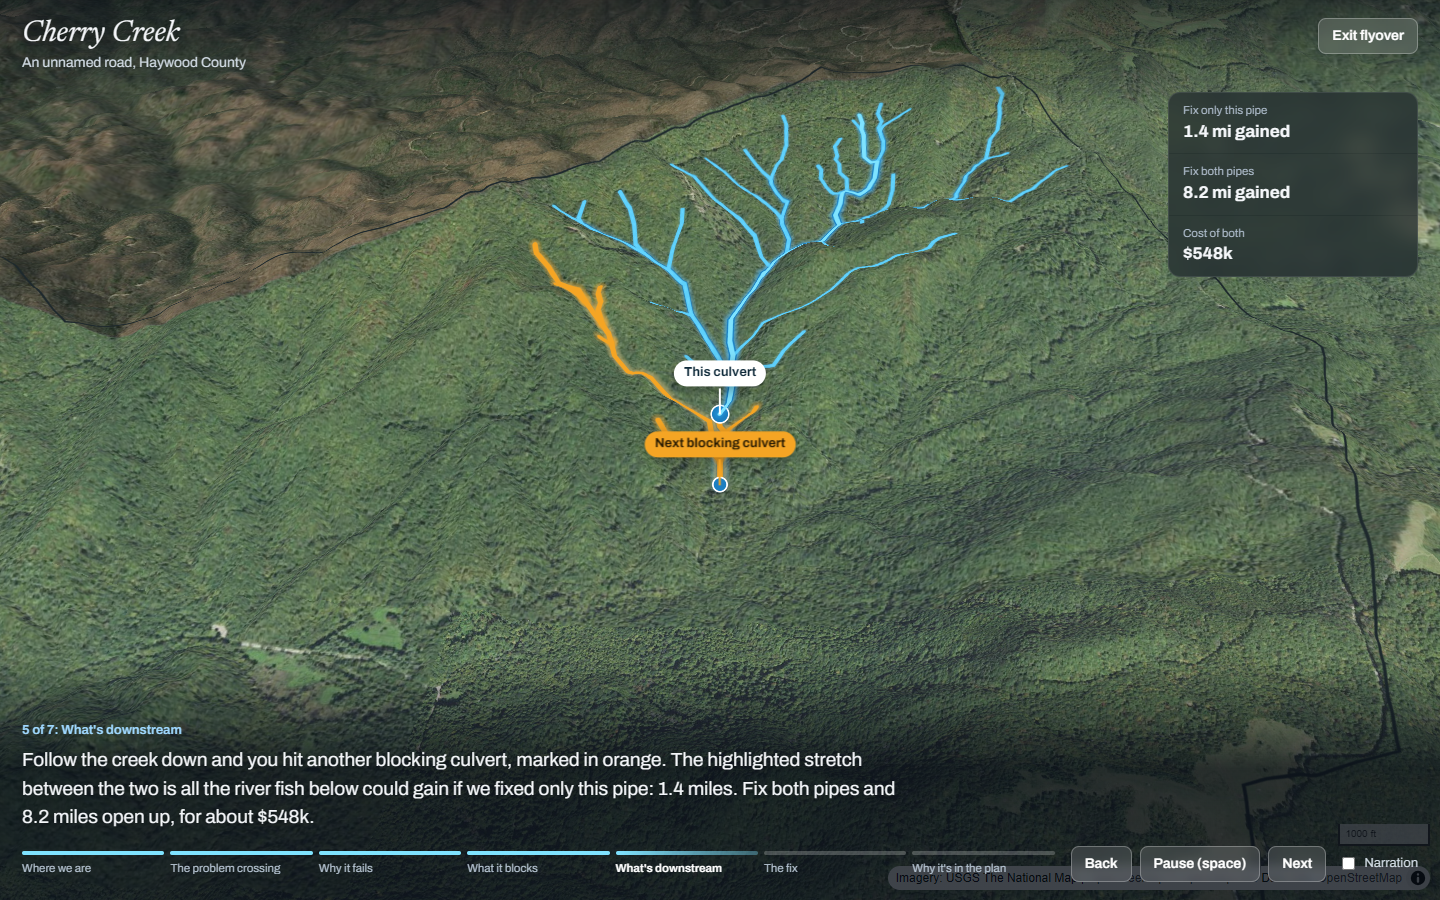
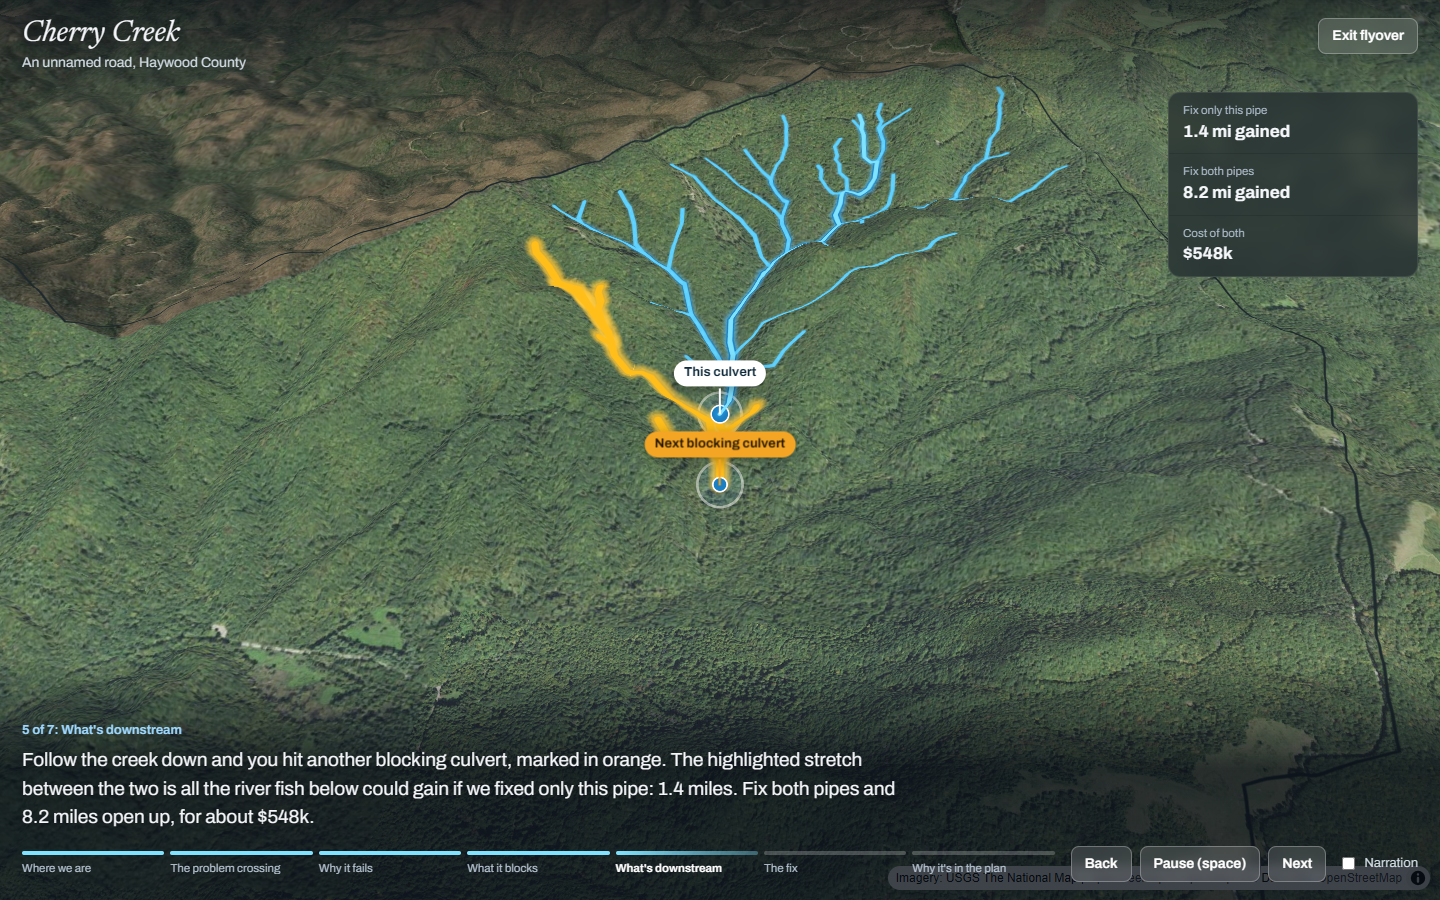
Brighter downstream river highlight in the flyover

Changed region(s): [[0.375, 0.28, 0.5312, 0.56], [0.9062, 0.9022, 1.0, 0.9644], [0.3438, 0.2489, 0.375, 0.28]]

diff --git a/app/flyover.js b/app/flyover.js
@@ -315,8 +315,10 @@ export async function startFlyover(ctx) {
   map.addSource("cine-up-src", { type: "geojson", data: empty });
   map.addSource("cine-below-src", { type: "geojson", data: empty });
   map.addLayer({ id: "cine-up", type: "line", source: "cine-up-src", layout: { "line-cap": "round" }, paint: { "line-color": "#62d5ff", "line-width": w(2.2), "line-opacity": 0.95 } }, "culverts");
-  map.addLayer({ id: "cine-below-glow", type: "line", source: "cine-below-src", layout: { "line-cap": "round" }, paint: { "line-color": AMBER, "line-width": w(7), "line-blur": 5, "line-opacity": 0.55 } }, "culverts");
-  map.addLayer({ id: "cine-below", type: "line", source: "cine-below-src", layout: { "line-cap": "round" }, paint: { "line-color": AMBER, "line-width": w(2.6) } }, "culverts");
+  // Downstream highlight: dark outline for contrast on satellite, a wide warm glow, a bright core.
+  map.addLayer({ id: "cine-below-case", type: "line", source: "cine-below-src", layout: { "line-cap": "round", "line-join": "round" }, paint: { "line-color": "#2a1a00", "line-width": w(5.2), "line-opacity": 0.55 } }, "culverts");
+  map.addLayer({ id: "cine-below-glow", type: "line", source: "cine-below-src", layout: { "line-cap": "round", "line-join": "round" }, paint: { "line-color": "#ffc93c", "line-width": w(11), "line-blur": 6, "line-opacity": 0.8 } }, "culverts");
+  map.addLayer({ id: "cine-below", type: "line", source: "cine-below-src", layout: { "line-cap": "round", "line-join": "round" }, paint: { "line-color": "#ffbe1a", "line-width": w(3.6) } }, "culverts");
   const showUp = (on) => map.getSource("cine-up-src")?.setData(on ? upData : empty);
   const showBelow = (on) => map.getSource("cine-below-src")?.setData(on ? belowData : empty);
   if (path) {
@@ -355,7 +357,7 @@ export async function startFlyover(ctx) {
     ui.root.classList.remove("paused");
     document.body.classList.remove("cinema");
     clearMarks(); thisPin.remove();
-    for (const id of ["trace", "trace-glow", "cine-up", "cine-below", "cine-below-glow"]) if (map.getLayer(id)) map.removeLayer(id);
+    for (const id of ["trace", "trace-glow", "cine-up", "cine-below", "cine-below-glow", "cine-below-case"]) if (map.getLayer(id)) map.removeLayer(id);
     for (const id of ["trace", "cine-up-src", "cine-below-src"]) if (map.getSource(id)) map.removeSource(id);
     if (map.getLayer("sat")) map.removeLayer("sat");
     if (map.setCenterElevation) map.setCenterElevation(0);

diff --git a/app/styles.css b/app/styles.css
@@ -340,8 +340,8 @@ body.cinema .panel, body.cinema .legend, body.cinema .map-tools, body.cinema .ma
 .cine-pin-dot { width: 2px; height: 26px; margin-top: 2px; background: currentColor; }
 .cine-pin--this { color: #ffffff; }
 .cine-pin--this .cine-pin-label { background: #ffffff; color: #0f2a3a; }
-.cine-pin--amber { color: #f5a524; }
-.cine-pin--amber .cine-pin-label { background: #f5a524; color: #1f1400; }
+.cine-pin--amber { color: #ffbe1a; }
+.cine-pin--amber .cine-pin-label { background: #ffbe1a; color: #1f1400; }
 .cine.paused .cine-caption::after { content: "Paused"; margin-left: 10px; padding: 2px 8px; border-radius: 6px; background: rgba(255, 255, 255, 0.18); font-size: 13px; vertical-align: middle; }
 .cine-xs-head, .cine-xs-note { color: #111111; }
 
